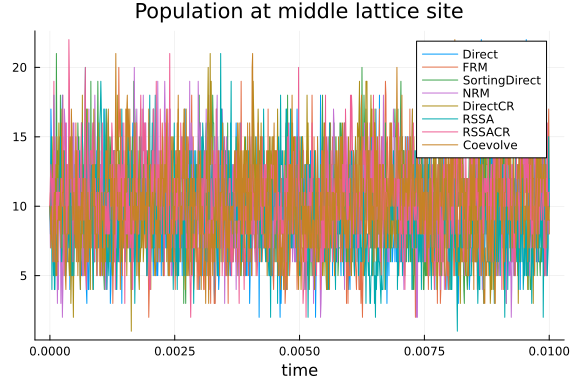
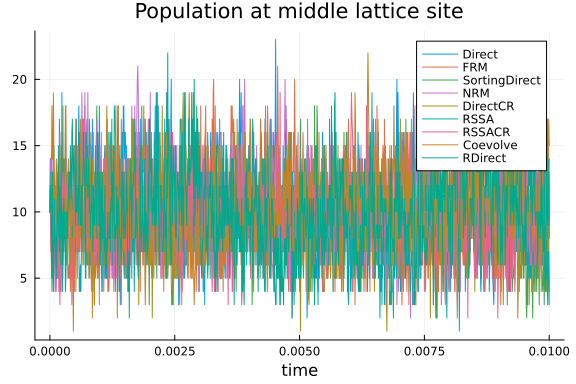
Automatic build\nPublished by build of: https://github.com/SciML/SciMLBenchmarks.jl/commit/55a64c1e650f974c5956763bd1462ce81c6bed40

diff --git a/markdown/Jumps/Diffusion_CTRW.md b/markdown/Jumps/Diffusion_CTRW.md
@@ -21,7 +21,7 @@ N = 256
 h = 1 / N
 u0 = 10 * ones(Int64, N)
 tf = .01
-methods = (Direct(), FRM(), SortingDirect(), NRM(), DirectCR(), RSSA(), RSSACR(), Coevolve())
+methods = (Direct(), FRM(), SortingDirect(), NRM(), DirectCR(), RSSA(), RSSACR(), Coevolve(), RDirect())
 shortlabels = [string(leg)[15:end-2] for leg in methods]
 jprob = JumpProblemLibrary.prob_jump_diffnetwork
 rn = jprob.network(N)
@@ -45,6 +45,7 @@ Benchmarking method: JumpProcesses.DirectCR()
 Benchmarking method: JumpProcesses.RSSA()
 Benchmarking method: JumpProcesses.RSSACR()
 Benchmarking method: JumpProcesses.Coevolve()
+Benchmarking method: JumpProcesses.RDirect()
 ```
 
 
@@ -97,29 +98,31 @@ df = DataFrame(names=shortlabels, medtimes=medtimes, relmedtimes=(medtimes/medti
 ```
 
 ```
-8×6 DataFrame
+9×6 DataFrame
  Row │ names          medtimes   relmedtimes  avgtimes   std         cv    
     ⋯
      │ String         Float64    Float64      Float64    Float64     Float6
 4   ⋯
 ─────┼─────────────────────────────────────────────────────────────────────
 ─────
-   1 │ Direct          7.26492     1.0         7.26801   0.0149057   0.0020
-508 ⋯
-   2 │ FRM            15.1227      2.0816     15.1241    0.0179329   0.0011
-857
-   3 │ SortingDirect   1.06843     0.147067    1.06894   0.00609132  0.0056
-984
-   4 │ NRM             0.754837    0.103902    0.756333  0.0049069   0.0064
-877
-   5 │ DirectCR        0.506313    0.0696928   0.507251  0.00358199  0.0070
-615 ⋯
-   6 │ RSSA            1.42121     0.195626    1.42188   0.00440544  0.0030
-983
-   7 │ RSSACR          0.443761    0.0610827   0.444491  0.0028377   0.0063
-841
-   8 │ Coevolve        0.895758    0.123299    0.896969  0.00550192  0.0061
-339
+   1 │ Direct          7.18969     1.0         7.18918   0.00811429  0.0011
+286 ⋯
+   2 │ FRM            15.3255      2.13159    15.3363    0.0380924   0.0024
+838
+   3 │ SortingDirect   1.0754      0.149576    1.07792   0.00799834  0.0074
+201
+   4 │ NRM             0.750231    0.104348    0.751002  0.00344066  0.0045
+814
+   5 │ DirectCR        0.530811    0.0738295   0.530574  0.00198451  0.0037
+403 ⋯
+   6 │ RSSA            1.41891     0.197354    1.41969   0.00364263  0.0025
+658
+   7 │ RSSACR          0.444214    0.0617849   0.44455   0.00137868  0.0031
+012
+   8 │ Coevolve        0.884709    0.123052    0.886615  0.00796779  0.0089
+867
+   9 │ RDirect         0.413445    0.0575052   0.41388   0.0031447   0.0075
+980 ⋯
                                                                 1 column om
 itted
 ```
@@ -168,7 +171,6 @@ Platform Info:
 Environment:
   JULIA_CPU_THREADS = 128
   JULIA_DEPOT_PATH = /cache/julia-buildkite-plugin/depots/5b300254-1738-4989-ae0a-f4d2d937f953
-  JULIA_IMAGE_THREADS = 1
 
 ```
 
@@ -180,18 +182,18 @@ Status `/cache/build/exclusive-amdci1-0/julialang/scimlbenchmarks-dot-jl/benchma
 ⌃ [479239e8] Catalyst v13.3.0
   [8f4d0f93] Conda v1.9.1
   [a93c6f00] DataFrames v1.6.1
-  [0c46a032] DifferentialEquations v7.9.0
+⌃ [0c46a032] DifferentialEquations v7.9.0
   [31c24e10] Distributions v0.25.100
   [86223c79] Graphs v1.8.0
   [faf0f6d7] JumpProblemLibrary v0.1.4
   [ccbc3e58] JumpProcesses v9.7.3
-  [961ee093] ModelingToolkit v8.66.0
+⌃ [961ee093] ModelingToolkit v8.66.0
   [1dea7af3] OrdinaryDiffEq v6.55.0
   [86206cdf] PiecewiseDeterministicMarkovProcesses v0.0.7
   [91a5bcdd] Plots v1.39.0
   [438e738f] PyCall v1.96.1
   [31c91b34] SciMLBenchmarks v0.1.3
-  [c3572dad] Sundials v4.19.3
+⌃ [c3572dad] Sundials v4.19.3
   [37e2e46d] LinearAlgebra
   [9a3f8284] Random
   [10745b16] Statistics v1.9.0
@@ -203,22 +205,22 @@ And the full manifest:
 
 ```
 Status `/cache/build/exclusive-amdci1-0/julialang/scimlbenchmarks-dot-jl/benchmarks/Jumps/Manifest.toml`
-  [47edcb42] ADTypes v0.2.1
-  [c3fe647b] AbstractAlgebra v0.31.1
+⌃ [47edcb42] ADTypes v0.2.1
+⌅ [c3fe647b] AbstractAlgebra v0.31.1
   [1520ce14] AbstractTrees v0.4.4
   [79e6a3ab] Adapt v3.6.2
   [ec485272] ArnoldiMethod v0.2.0
   [4fba245c] ArrayInterface v7.4.11
   [30b0a656] ArrayInterfaceCore v0.1.29
-  [4c555306] ArrayLayouts v1.3.0
+⌃ [4c555306] ArrayLayouts v1.3.0
   [aae01518] BandedMatrices v0.17.38
   [6e4b80f9] BenchmarkTools v1.3.2
-  [e2ed5e7c] Bijections v0.1.4
+⌃ [e2ed5e7c] Bijections v0.1.4
   [d1d4a3ce] BitFlags v0.1.7
   [62783981] BitTwiddlingConvenienceFunctions v0.1.5
 ⌅ [764a87c0] BoundaryValueDiffEq v3.0.0
   [fa961155] CEnum v0.4.2
-  [2a0fbf3d] CPUSummary v0.2.3
+⌃ [2a0fbf3d] CPUSummary v0.2.3
   [00ebfdb7] CSTParser v3.3.6
   [49dc2e85] Calculus v0.5.1
 ⌃ [479239e8] Catalyst v13.3.0
@@ -237,7 +239,7 @@ Status `/cache/build/exclusive-amdci1-0/julialang/scimlbenchmarks-dot-jl/benchma
   [b152e2b5] CompositeTypes v0.1.3
   [f0e56b4a] ConcurrentUtilities v2.2.1
   [8f4d0f93] Conda v1.9.1
-  [187b0558] ConstructionBase v1.5.3
+⌃ [187b0558] ConstructionBase v1.5.3
   [d38c429a] Contour v0.6.2
   [adafc99b] CpuId v0.3.1
   [a8cc5b0e] Crayons v4.1.1
@@ -247,21 +249,21 @@ Status `/cache/build/exclusive-amdci1-0/julialang/scimlbenchmarks-dot-jl/benchma
   [e2d170a0] DataValueInterfaces v1.0.0
   [bcd4f6db] DelayDiffEq v5.42.0
   [8bb1440f] DelimitedFiles v1.9.1
-  [2b5f629d] DiffEqBase v6.128.2
+⌃ [2b5f629d] DiffEqBase v6.128.2
   [459566f4] DiffEqCallbacks v2.29.1
   [77a26b50] DiffEqNoiseProcess v5.18.0
   [163ba53b] DiffResults v1.1.0
   [b552c78f] DiffRules v1.15.1
-  [0c46a032] DifferentialEquations v7.9.0
+⌃ [0c46a032] DifferentialEquations v7.9.0
   [b4f34e82] Distances v0.10.9
   [31c24e10] Distributions v0.25.100
   [ffbed154] DocStringExtensions v0.9.3
   [5b8099bc] DomainSets v0.6.7
   [fa6b7ba4] DualNumbers v0.6.8
-  [7c1d4256] DynamicPolynomials v0.5.2
+⌃ [7c1d4256] DynamicPolynomials v0.5.2
   [4e289a0a] EnumX v1.0.4
   [460bff9d] ExceptionUnwrapping v0.1.9
-  [d4d017d3] ExponentialUtilities v1.24.0
+⌃ [d4d017d3] ExponentialUtilities v1.24.0
   [e2ba6199] ExprTools v0.1.10
   [c87230d0] FFMPEG v0.4.1
   [7034ab61] FastBroadcast v0.2.6
@@ -283,7 +285,7 @@ Status `/cache/build/exclusive-amdci1-0/julialang/scimlbenchmarks-dot-jl/benchma
   [42e2da0e] Grisu v1.0.2
   [0b43b601] Groebner v0.4.2
   [d5909c97] GroupsCore v0.4.0
-  [cd3eb016] HTTP v1.9.14
+⌃ [cd3eb016] HTTP v1.9.14
   [eafb193a] Highlights v0.5.2
   [3e5b6fbb] HostCPUFeatures v0.1.16
   [34004b35] HypergeometricFunctions v0.3.23
@@ -299,10 +301,10 @@ Status `/cache/build/exclusive-amdci1-0/julialang/scimlbenchmarks-dot-jl/benchma
   [1019f520] JLFzf v0.1.5
   [692b3bcd] JLLWrappers v1.5.0
   [682c06a0] JSON v0.21.4
-  [98e50ef6] JuliaFormatter v1.0.35
+⌃ [98e50ef6] JuliaFormatter v1.0.35
   [faf0f6d7] JumpProblemLibrary v0.1.4
   [ccbc3e58] JumpProcesses v9.7.3
-  [ef3ab10e] KLU v0.4.0
+⌃ [ef3ab10e] KLU v0.4.0
   [ba0b0d4f] Krylov v0.9.4
   [7f56f5a3] LSODA v0.7.4
   [b964fa9f] LaTeXStrings v1.3.0
@@ -323,11 +325,11 @@ Status `/cache/build/exclusive-amdci1-0/julialang/scimlbenchmarks-dot-jl/benchma
   [739be429] MbedTLS v1.1.7
   [442fdcdd] Measures v0.3.2
   [e1d29d7a] Missings v1.1.0
-  [961ee093] ModelingToolkit v8.66.0
+⌃ [961ee093] ModelingToolkit v8.66.0
   [46d2c3a1] MuladdMacro v0.2.4
-  [102ac46a] MultivariatePolynomials v0.5.1
+⌃ [102ac46a] MultivariatePolynomials v0.5.1
   [ffc61752] Mustache v1.0.17
-  [d8a4904e] MutableArithmetics v1.3.1
+⌃ [d8a4904e] MutableArithmetics v1.3.1
   [d41bc354] NLSolversBase v7.8.3
   [2774e3e8] NLsolve v4.5.1
   [77ba4419] NaNMath v1.0.2
@@ -363,7 +365,7 @@ Status `/cache/build/exclusive-amdci1-0/julialang/scimlbenchmarks-dot-jl/benchma
   [e6cf234a] RandomNumbers v1.5.3
   [3cdcf5f2] RecipesBase v1.3.4
   [01d81517] RecipesPipeline v0.6.12
-  [731186ca] RecursiveArrayTools v2.38.7
+⌃ [731186ca] RecursiveArrayTools v2.38.7
   [f2c3362d] RecursiveFactorization v0.2.20
   [189a3867] Reexport v1.2.2
   [05181044] RelocatableFolders v1.0.0
@@ -374,7 +376,7 @@ Status `/cache/build/exclusive-amdci1-0/julialang/scimlbenchmarks-dot-jl/benchma
   [fdea26ae] SIMD v3.4.5
   [94e857df] SIMDTypes v0.1.0
   [476501e8] SLEEFPirates v0.6.39
-  [0bca4576] SciMLBase v1.95.0
+⌃ [0bca4576] SciMLBase v1.95.0
   [31c91b34] SciMLBenchmarks v0.1.3
   [e9a6253c] SciMLNLSolve v0.1.8
   [c0aeaf25] SciMLOperators v0.3.6
@@ -389,25 +391,25 @@ Status `/cache/build/exclusive-amdci1-0/julialang/scimlbenchmarks-dot-jl/benchma
   [66db9d55] SnoopPrecompile v1.0.3
   [b85f4697] SoftGlobalScope v1.1.0
   [a2af1166] SortingAlgorithms v1.1.1
-  [47a9eef4] SparseDiffTools v2.5.1
+⌃ [47a9eef4] SparseDiffTools v2.5.1
   [e56a9233] Sparspak v0.3.9
   [276daf66] SpecialFunctions v2.3.1
   [aedffcd0] Static v0.8.8
   [0d7ed370] StaticArrayInterface v1.4.1
-  [90137ffa] StaticArrays v1.6.2
+⌃ [90137ffa] StaticArrays v1.6.2
   [1e83bf80] StaticArraysCore v1.4.2
-  [82ae8749] StatsAPI v1.6.0
+⌃ [82ae8749] StatsAPI v1.6.0
 ⌅ [2913bbd2] StatsBase v0.33.21
   [4c63d2b9] StatsFuns v1.3.0
   [9672c7b4] SteadyStateDiffEq v1.16.0
   [789caeaf] StochasticDiffEq v6.62.0
   [7792a7ef] StrideArraysCore v0.4.17
   [69024149] StringEncodings v0.3.7
-  [892a3eda] StringManipulation v0.3.0
-  [c3572dad] Sundials v4.19.3
+⌃ [892a3eda] StringManipulation v0.3.0
+⌃ [c3572dad] Sundials v4.19.3
   [2efcf032] SymbolicIndexingInterface v0.2.2
-  [d1185830] SymbolicUtils v1.2.0
-  [0c5d862f] Symbolics v5.5.1
+⌃ [d1185830] SymbolicUtils v1.2.0
+⌃ [0c5d862f] Symbolics v5.5.1
   [3783bdb8] TableTraits v1.0.1
   [bd369af6] Tables v1.10.1
   [62fd8b95] TensorCore v0.1.1
@@ -444,7 +446,7 @@ Status `/cache/build/exclusive-amdci1-0/julialang/scimlbenchmarks-dot-jl/benchma
   [d2c73de3] GR_jll v0.72.9+1
   [78b55507] Gettext_jll v0.21.0+0
   [f8c6e375] Git_jll v2.36.1+2
-  [7746bdde] Glib_jll v2.74.0+2
+⌃ [7746bdde] Glib_jll v2.74.0+2
   [3b182d85] Graphite2_jll v1.3.14+0
   [2e76f6c2] HarfBuzz_jll v2.8.1+1
   [aacddb02] JpegTurbo_jll v2.1.91+0
